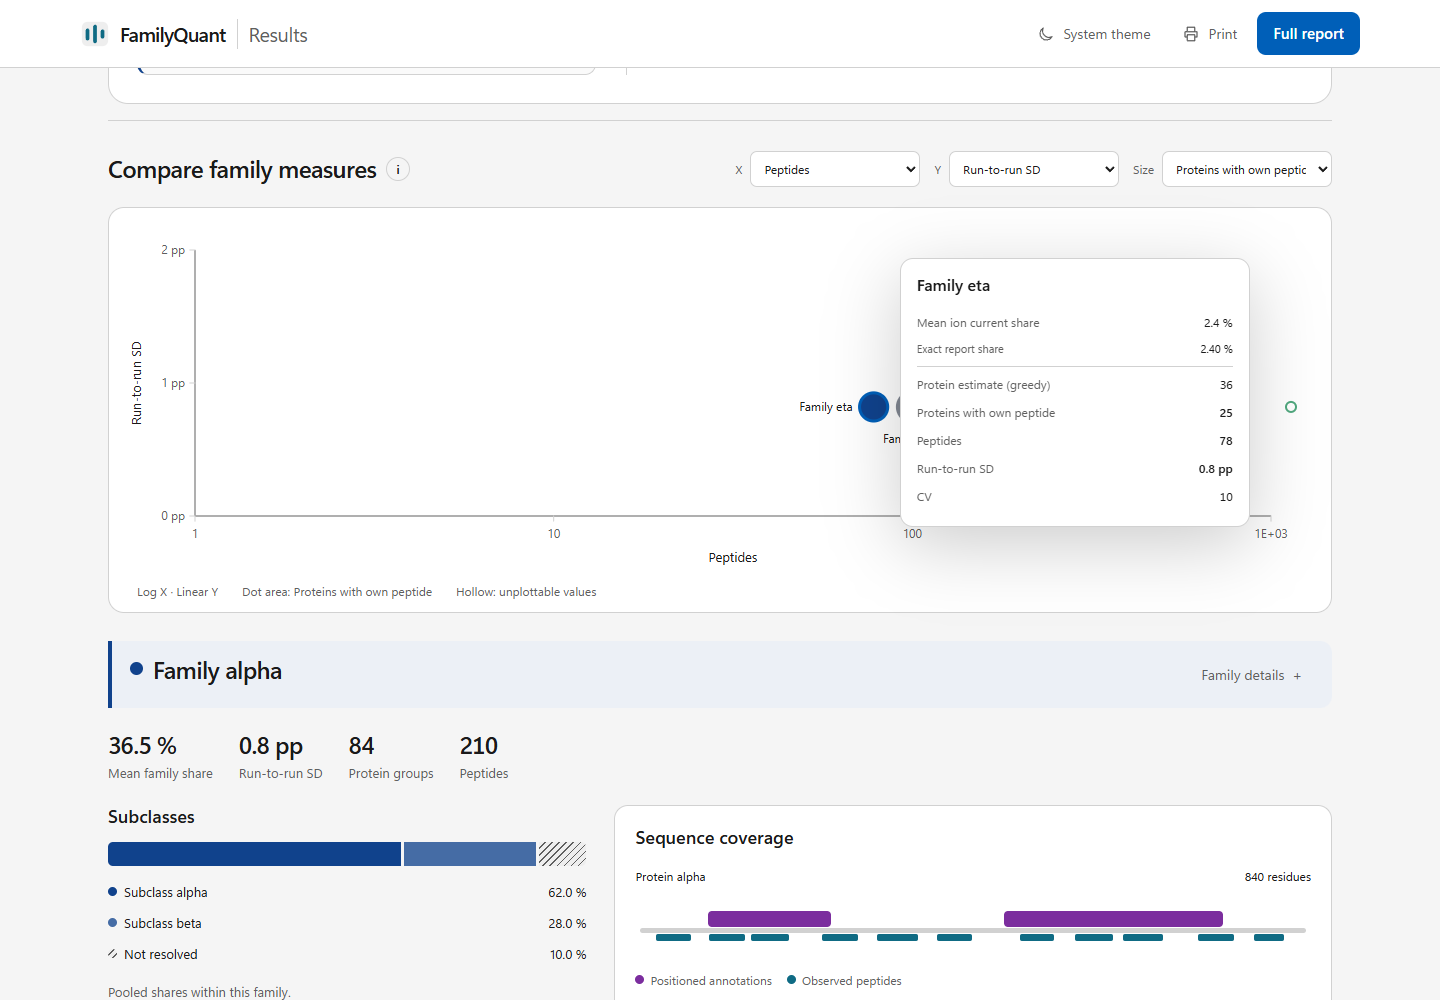
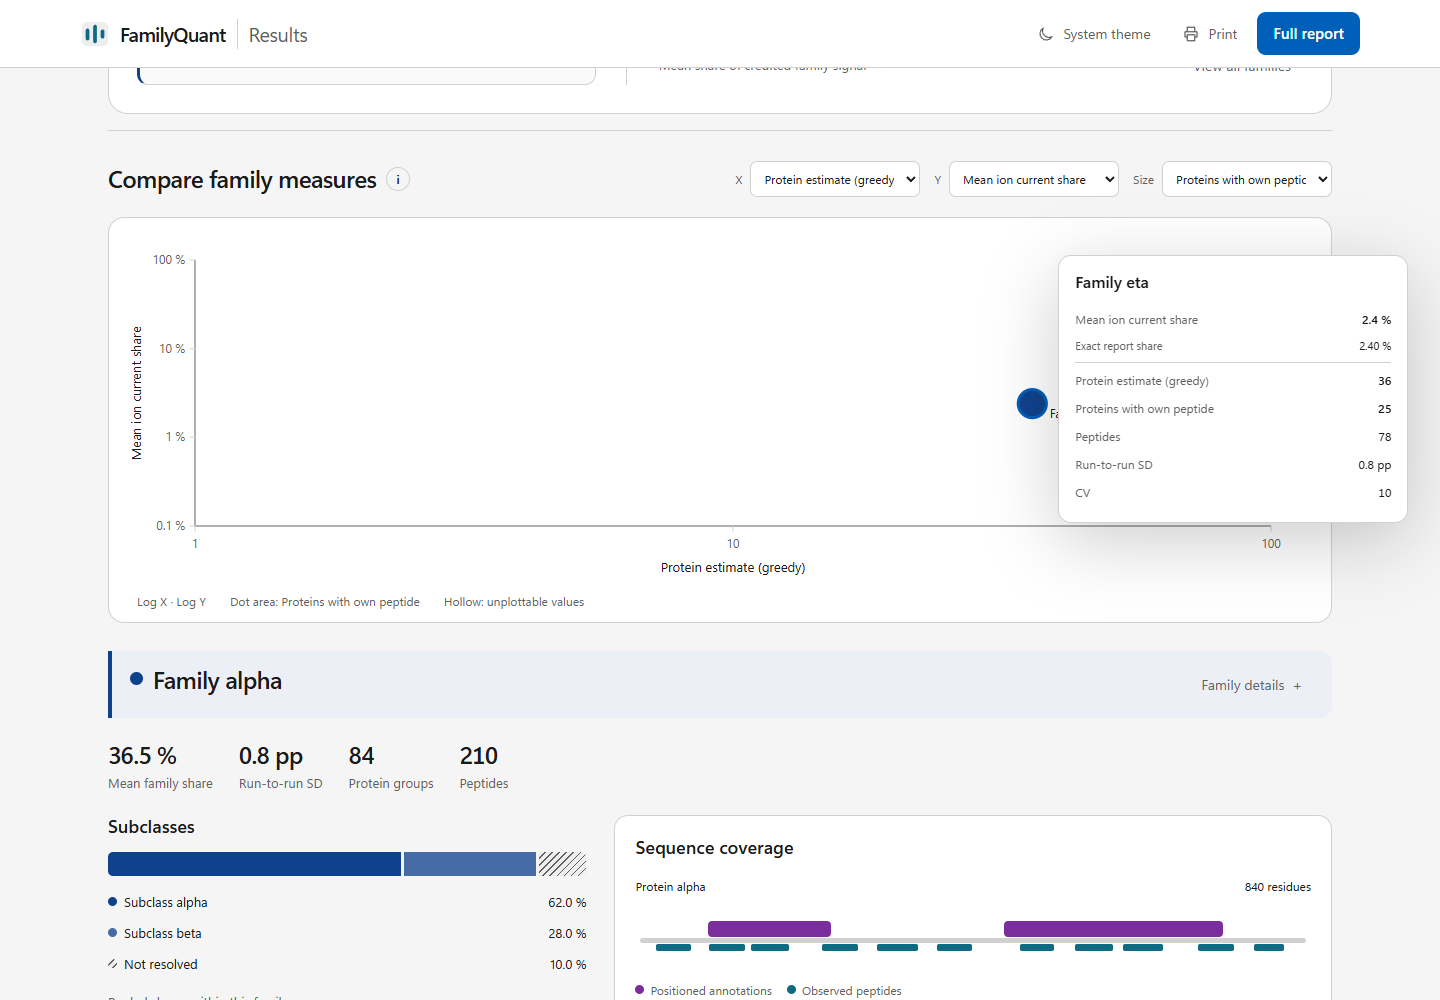
Show the default family plot measures

diff --git a/README.md b/README.md
@@ -18,7 +18,7 @@ The ring shows family composition. Select a segment or a family in **Across the 
 
 ![The same synthetic report in dark mode](docs/images/report-dark.png)
 
-The **Compare family measures** dot plot lets you choose X, Y and Size from the measures available in your project, such as mean ion current share, peptide count, greedy protein estimate, proteins with their own peptide, run-to-run SD and CV. Each dot represents a family, and its area reflects the selected size measure. Hover over or select a dot for its values; selecting it also selects the family elsewhere in the report. The plot labels its axis scales, and hollow markers indicate unplottable or zero-size values.
+The **Compare family measures** dot plot opens with protein estimate (greedy) on X, mean ion current share on Y, and proteins with their own peptide as Size, when those measures are available. You can change X, Y and Size to other measures available in your project, such as peptide count, run-to-run SD and CV. Each dot represents a family, and its area reflects the selected size measure. Hover over or select a dot for its values; selecting it also selects the family elsewhere in the report. The plot labels its axis scales, and hollow markers indicate unplottable or zero-size values.
 
 ![Synthetic family dot plot with measure selectors and a value tooltip](docs/images/report-dot-plot.png)
 
